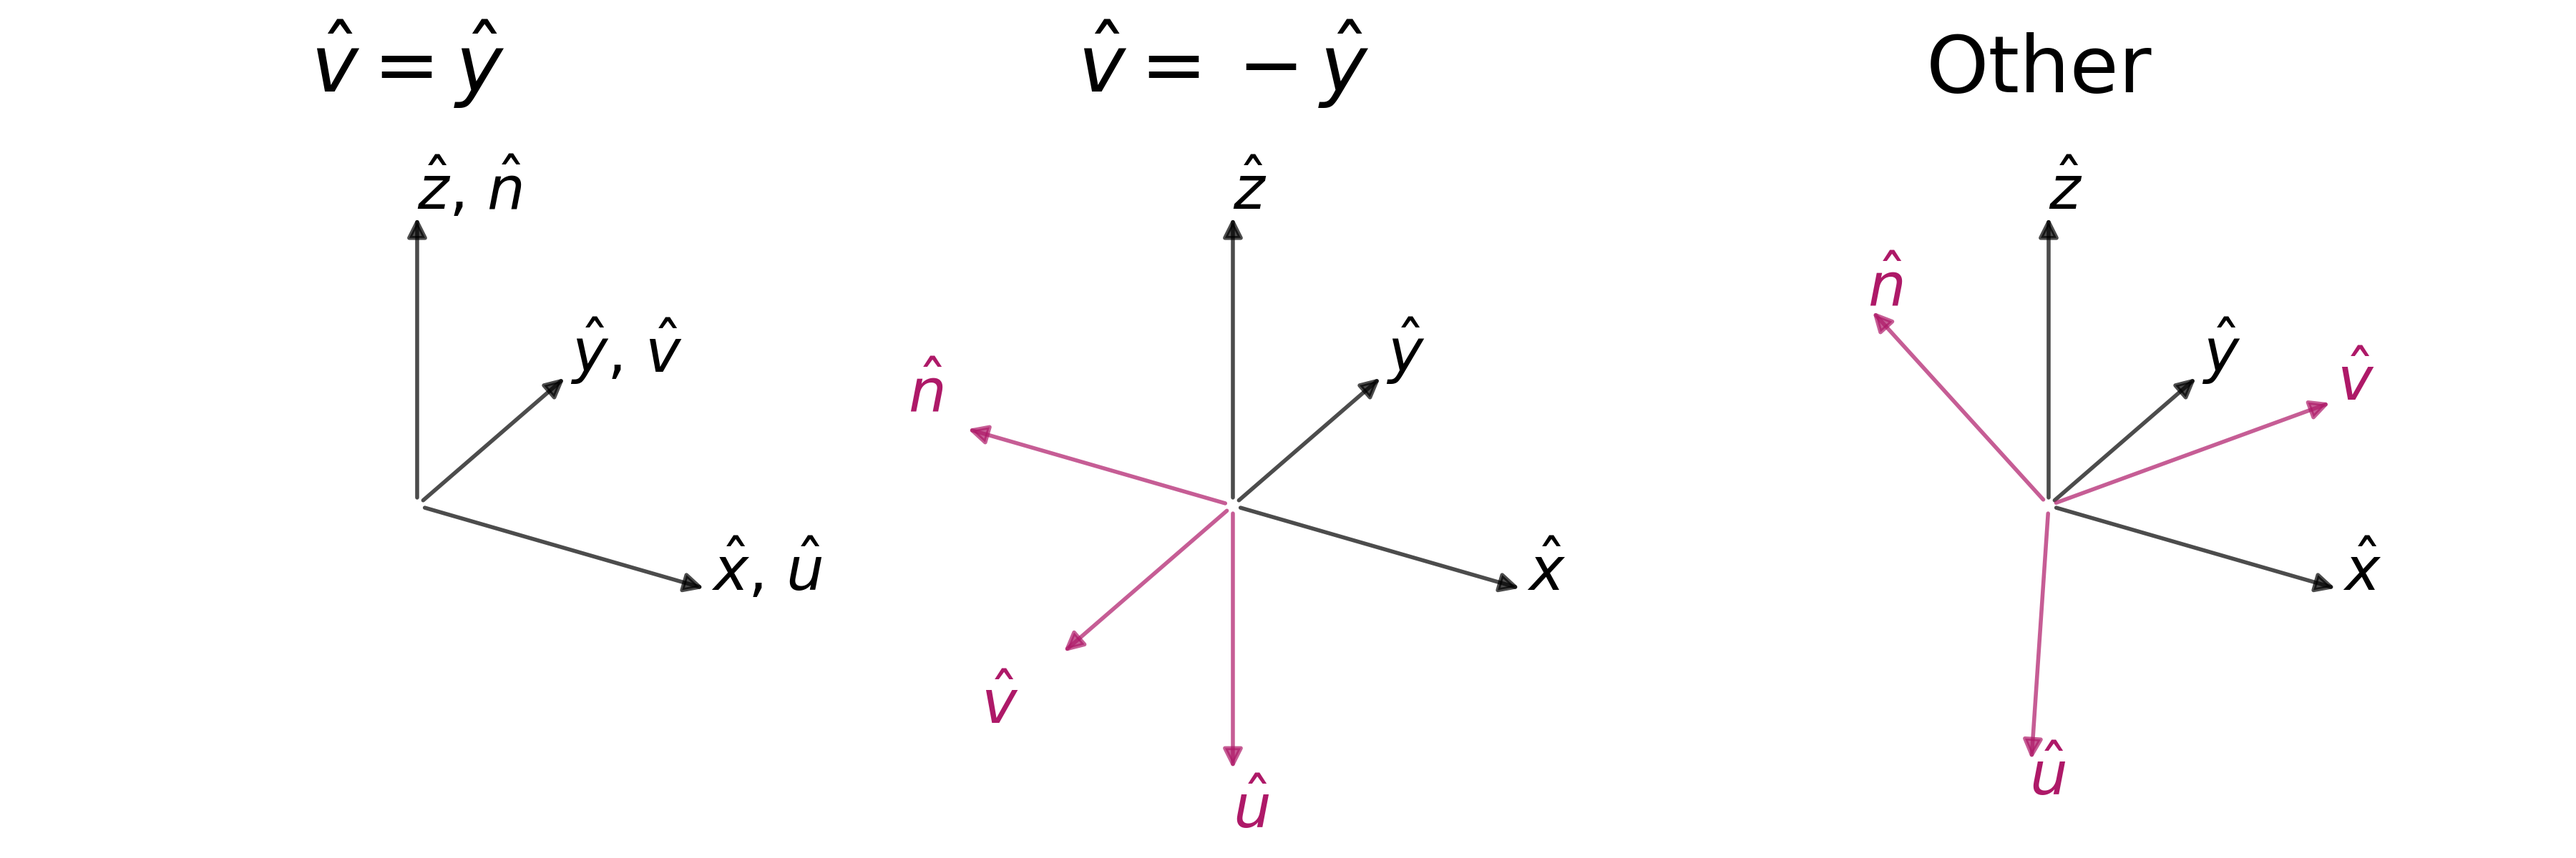
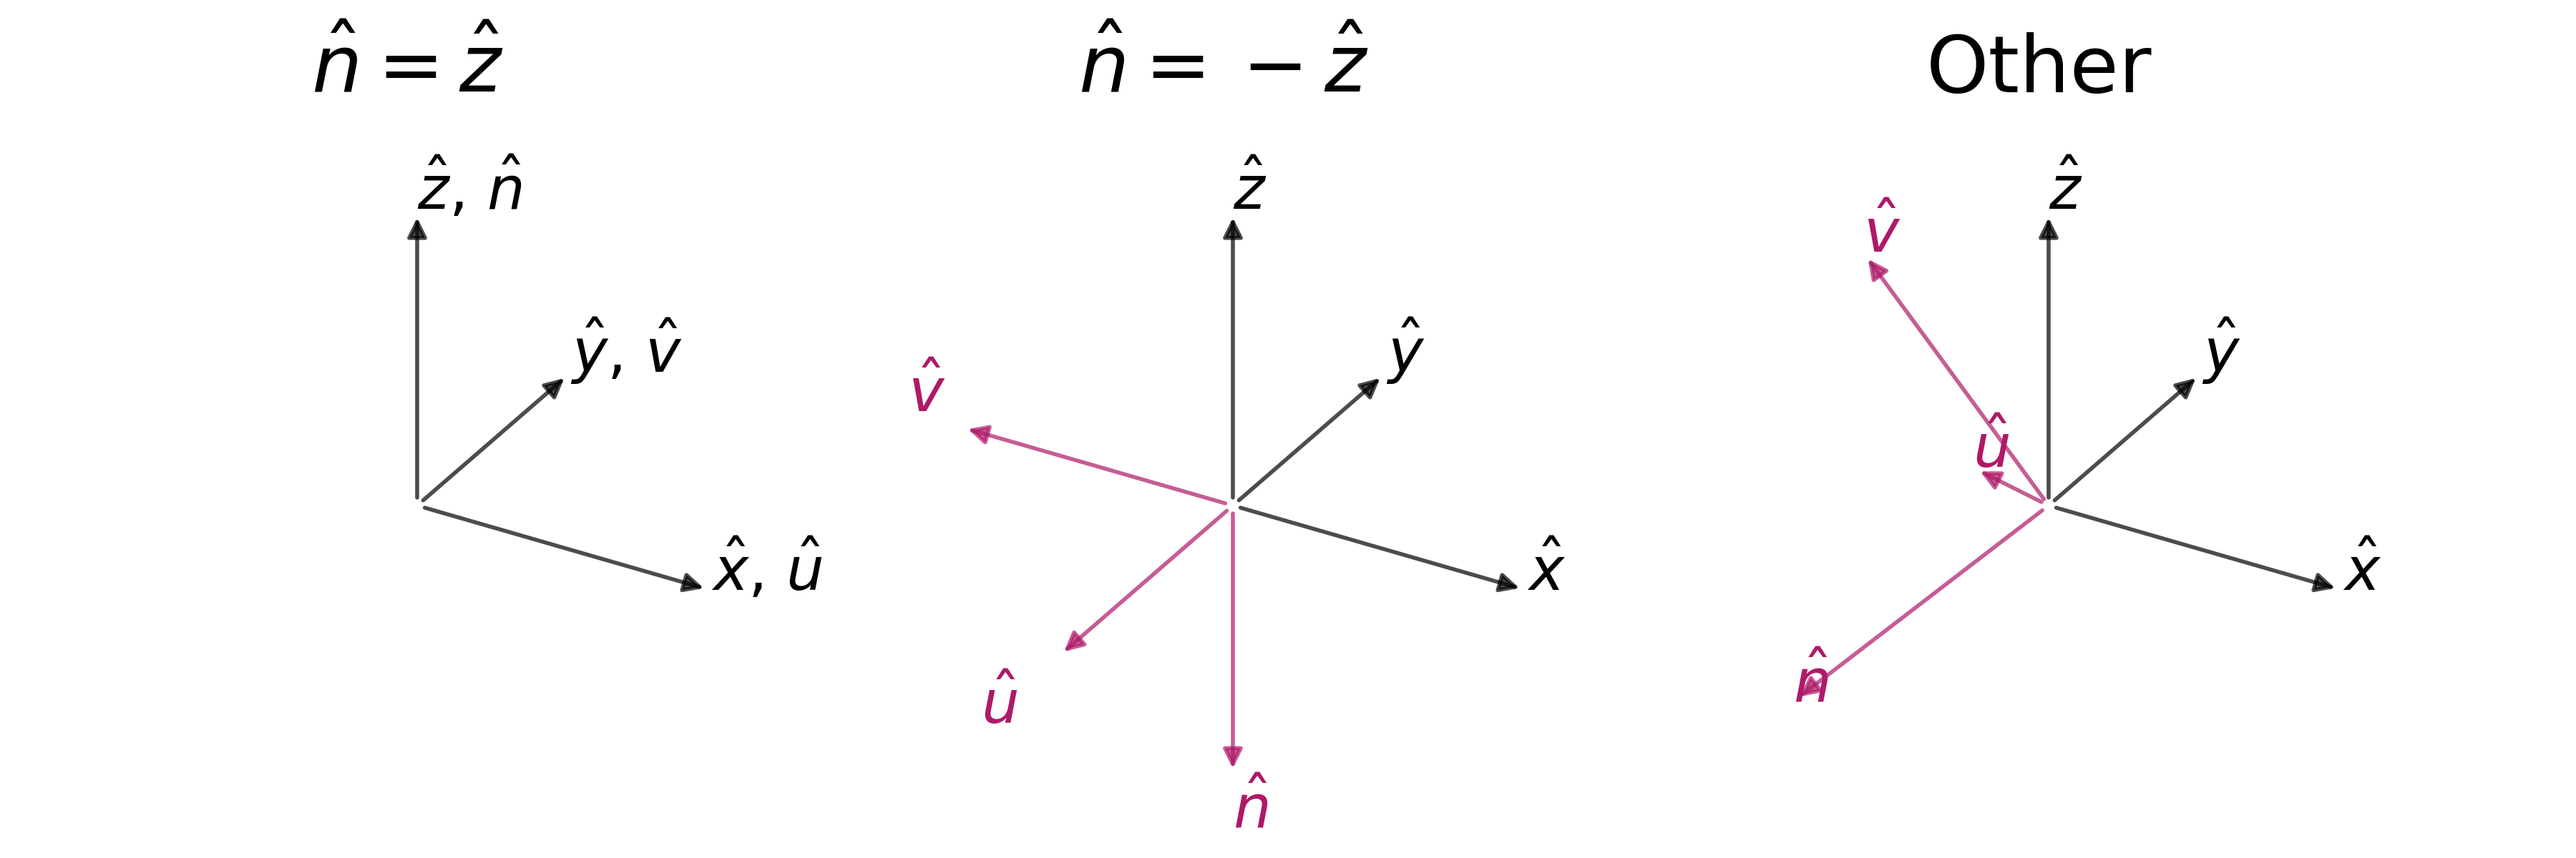
In the process

diff --git a/docs/images/scripts/cs-choice.py b/docs/images/scripts/cs-choice.py
@@ -50,7 +50,7 @@ def main(root_directory):
     dis = (1 - 3 * width - right_fix) / 6
     limit = 0.6
     axs = []
-    titles = ["$\hat{v} = \hat{y}$", "$\hat{v} = -\hat{y}$", "Other"]
+    titles = ["$\hat{n} = \hat{z}$", "$\hat{n} = -\hat{z}$", "Other"]
     color = "#AE1968"
     for i in range(3):
         axs.append(
@@ -75,22 +75,22 @@ def main(root_directory):
         axs[-1].set_title(titles[i], fontsize=20, pad=20)
 
     # Plot v = -y
-    plot_vector(axs[1], (0, 0, -1), R"$\hat{u}$", color=color, label_shift=(0, 0, -0.2))
-    plot_vector(axs[1], (0, -1, 0), R"$\hat{v}$", color=color, label_shift=(0, -0.4, 0))
-    plot_vector(axs[1], (-1, 0, 0), R"$\hat{n}$", color=color, label_shift=(-0.2, 0, 0))
+    plot_vector(axs[1], (0, 0, -1), R"$\hat{n}$", color=color, label_shift=(0, 0, -0.2))
+    plot_vector(axs[1], (0, -1, 0), R"$\hat{u}$", color=color, label_shift=(0, -0.4, 0))
+    plot_vector(axs[1], (-1, 0, 0), R"$\hat{v}$", color=color, label_shift=(-0.2, 0, 0))
 
     # Plot example of other cases
-    v = np.array([7, 2, 4], dtype=float)
-    v /= np.linalg.norm(v)
-    u = np.array((1 - (v[0] ** 2) / (1 + v[1]), -v[0], -v[0] * v[2] / (1 + v[1])))
-    n = np.array(
+    n = np.array([-1, -1, -1], dtype=float)
+    n /= np.linalg.norm(n)
+    u = np.array((1 - (n[0] ** 2) / (1 + n[2]), -n[0] * n[1] / (1 + n[2]), -n[0]))
+    v = np.array(
         (
-            -v[0] * v[2] / (1 + v[1]),
-            -v[2],
-            1 - (v[2] ** 2) / (1 + v[1]),
+            -n[0] * n[1] / (1 + n[2]),
+            1 - (n[1] ** 2) / (1 + n[2]),
+            -n[1],
         )
     )
-    plot_vector(axs[2], u, R"$\hat{u}$", color=color, label_shift=0.1 * u)
+    plot_vector(axs[2], u, R"$\hat{u}$", color=color)
     plot_vector(axs[2], v, R"$\hat{v}$", color=color)
     plot_vector(axs[2], n, R"$\hat{n}$", color=color)
 

diff --git a/docs/source/user-guide/methods/cs-choice.rst b/docs/source/user-guide/methods/cs-choice.rst
@@ -82,30 +82,30 @@ Where :math:`\hat{n}` is the global rotation axis and
   .. math::
 
       \begin{aligned}
-        \cos\alpha &= \hat{z}\cdot\hat{n} = v_z \\
-        \sin\alpha &= \sqrt{1 - v_z^2} \\
+        \cos\alpha &= \hat{z}\cdot\hat{n} = n_z \\
+        \sin\alpha &= \sqrt{1 - n_z^2} \\
         \hat{r}_n &= \hat{z}\times\hat{n} =
-        \dfrac{1}{\sqrt{v_x^2+v_z^2}}(v_z, 0, -v_x)_{xyz}^T \\
+        \dfrac{1}{\sqrt{n_x^2+n_y^2}}(-n_y, n_x, 0)_{xyz}^T \\
       \end{aligned}
 
   .. math::
 
-      R_{\alpha}^{\hat{r}_v} =
+      R_{\alpha}^{\hat{r}_n} =
       \begin{pmatrix}
-        1 - \dfrac{v_x^2}{1+v_y} & v_x & -\dfrac{v_xv_z}{1+v_y}   \\
-        -v_x                     & v_y & -v_z                     \\
-        -\dfrac{v_xv_z}{1+v_y}   & v_z & 1 - \dfrac{v_z^2}{1+v_y} \\
+        1 - \dfrac{n_x^2}{1+n_z} & -\dfrac{n_xn_y}{1+n_z}   & n_x  \\
+        -\dfrac{n_xn_y}{1+n_z}   & 1 - \dfrac{n_y^2}{1+n_z} & n_y  \\
+        -n_x                     & -n_y                     & n_z \\
       \end{pmatrix}
 
   .. math::
 
       \begin{aligned}
-        \hat{u}_{xyz} &= R_{\alpha}^{\hat{r}_v} (1,0,0)^T
-        = (1 - \dfrac{v_x^2}{1+v_y}, -v_x, -\dfrac{v_xv_z}{1+v_y})^T\\
-        \hat{v}_{xyz} &= R_{\alpha}^{\hat{r}_v} (0,1,0)^T
-        = (v_x, v_y, v_z)^T\\
-        \hat{n}_{xyz} &= R_{\alpha}^{\hat{r}_v} (0,0,1)^T
-        = (-\dfrac{v_xv_z}{1+v_y}, -v_z, 1 - \dfrac{v_z^2}{1+v_y})^T\\
+        \hat{u}_{xyz} &= R_{\alpha}^{\hat{r}_n} (1,0,0)^T
+        = (1 - \dfrac{n_x^2}{1+n_z}, -\dfrac{n_xn_y}{1+n_z}, -n_x)^T \\
+        \hat{v}_{xyz} &= R_{\alpha}^{\hat{r}_n} (0,1,0)^T
+        =  (-\dfrac{n_xn_y}{1+n_z}, 1 - \dfrac{n_y^2}{1+n_z}, -n_y)^T \\
+        \hat{n}_{xyz} &= R_{\alpha}^{\hat{r}_n} (0,0,1)^T
+        = (n_x, n_y, n_z)^T \\
       \end{aligned}
 
 .. image:: ../../../images/cs-choice.png
@@ -115,18 +115,18 @@ Where :math:`\hat{n}` is the global rotation axis and
 The spin vectors and exchange matrices under the change of the coordinate system:
 
 .. math::
-    \vec{S}^a = R_{\alpha}^{\hat{r}_v}(S_x^a, S_y^a, S_z^a)_{xyz}^T
+    \vec{S}^a = R_{\alpha}^{\hat{r}_n}(S_x^a, S_y^a, S_z^a)_{xyz}^T
     = (S_u^a, S_v^a, S_n^a)_{uvn}^T
 
 .. math::
 
     J_{a,b}(\vec{d})
-    = R_{\alpha}^{\hat{r}_v}
+    = R_{\alpha}^{\hat{r}_n}
     \begin{pmatrix}
         J_{xx} & J_{xy} & J_{xz} \\
         J_{yx} & J_{yy} & J_{yz} \\
         J_{zx} & J_{zy} & J_{zz}
-    \end{pmatrix}_{xyz} (R_{\alpha}^{\hat{r}_v})^T
+    \end{pmatrix}_{xyz} (R_{\alpha}^{\hat{r}_n})^T
     = \begin{pmatrix}
         J_{uu} & J_{uv} & J_{un} \\
         J_{vu} & J_{vv} & J_{vn} \\
